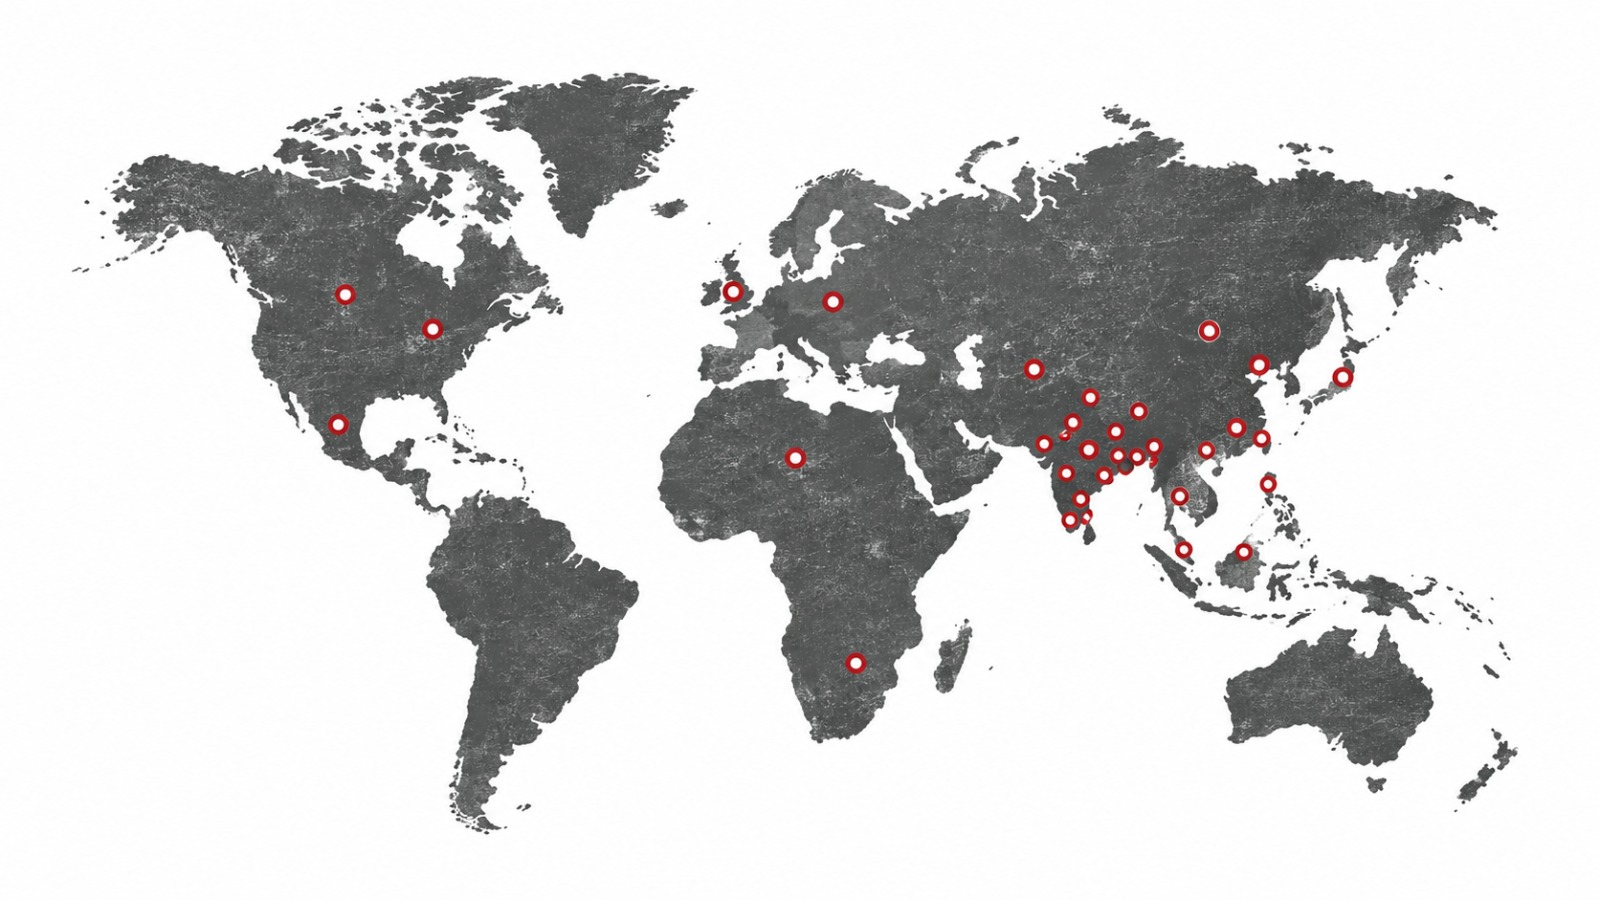
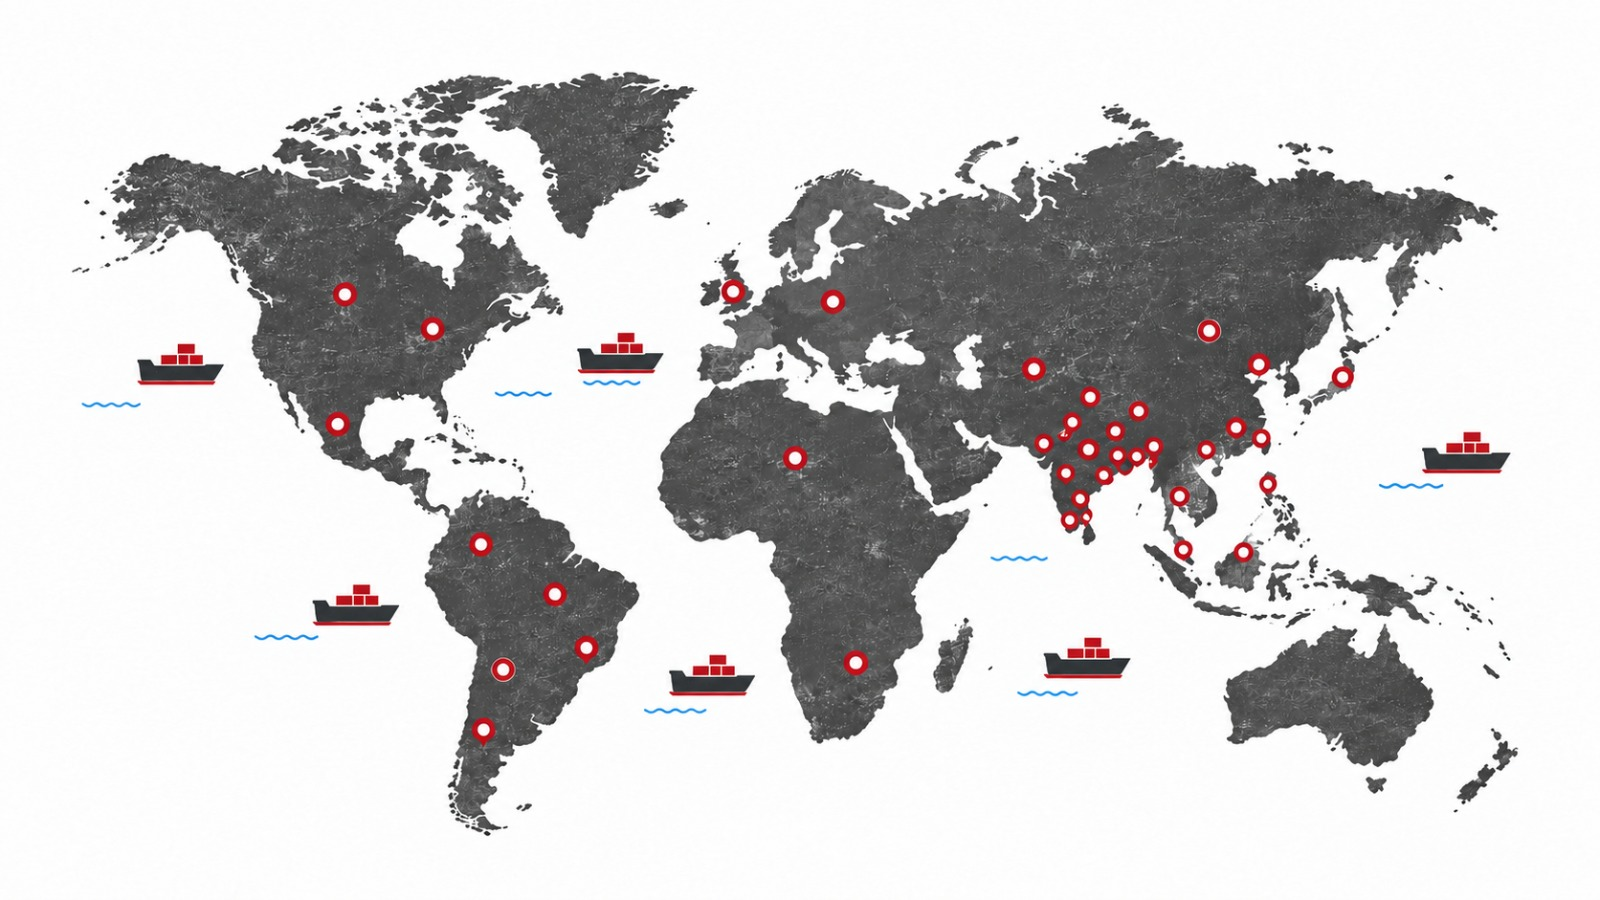
first commit

diff --git a/page-about-us.php b/page-about-us.php
@@ -508,7 +508,7 @@ include('./includes/include.inc.php');
                             </div>
                             <p>With an ever-expanding international customer base, Primetech exports high-performance machinery across Asia, the Middle East, Africa, and beyond.</p>
                             <div class="exports-map-wrapper">
-                                <img src="<?php echo $GLBHost; ?>images/our-exports-world-map.jpg" alt="Our Exports - World Map" class="img-responsive center-block">
+                                <img src="<?php echo $GLBHost; ?>images/world-map.jpeg" alt="Our Exports - World Map" class="img-responsive center-block">
                             </div>
                         </div>
                     </div>
